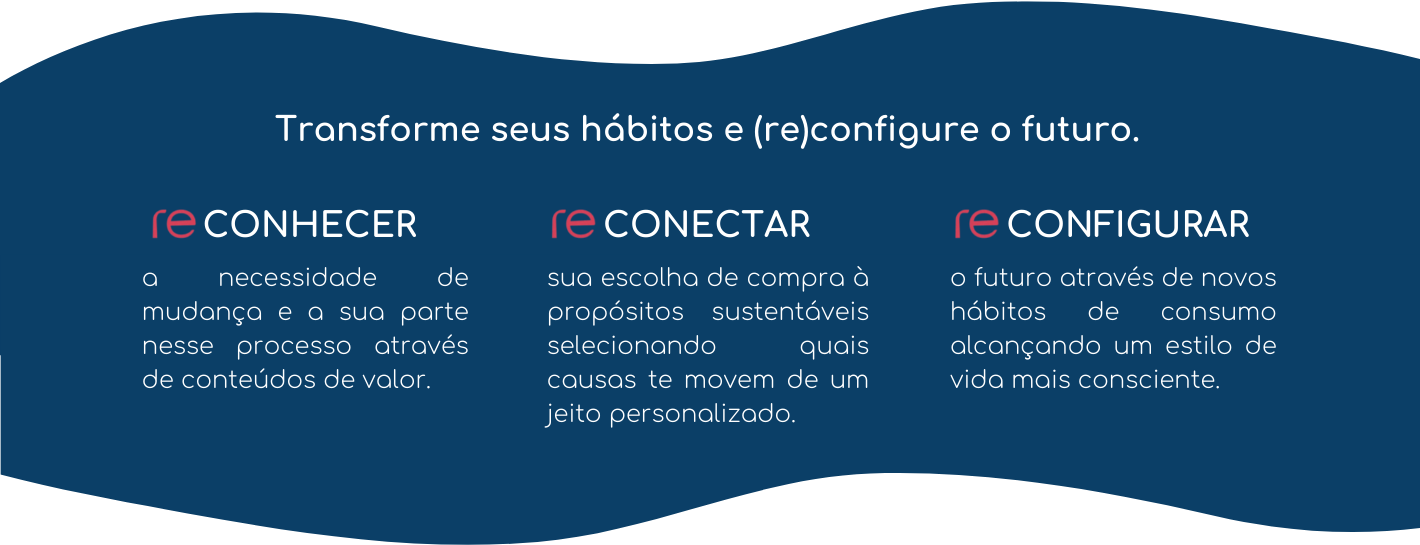
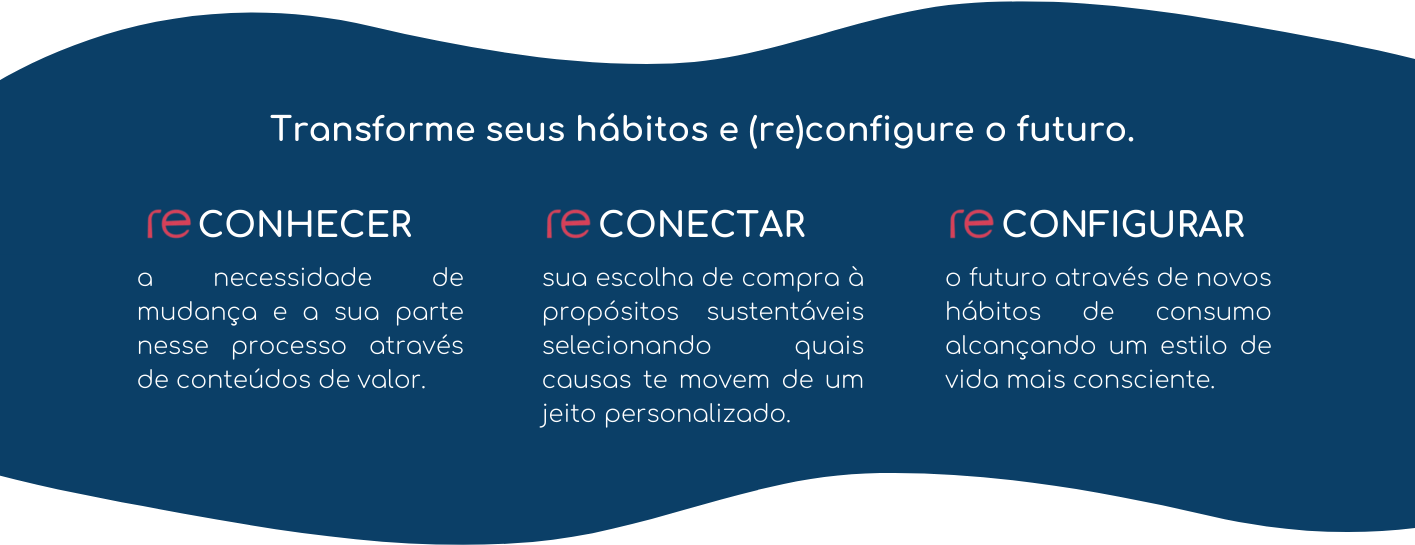
feat: presentation version

diff --git a/index.html b/index.html
@@ -6,6 +6,9 @@
   <meta name="viewport" content="width=device-width, initial-scale=1.0">
   <title>Re.You Shop | Sobre nós</title>
   <link rel="stylesheet" href="./styles.css">
+  <link rel="preconnect" href="https://fonts.googleapis.com">
+  <link rel="preconnect" href="https://fonts.gstatic.com" crossorigin>
+  <link href="https://fonts.googleapis.com/css2?family=Nunito:wght@300;400;500&family=Roboto+Serif:opsz,wght@8..144,100&display=swap" rel="stylesheet">
 </head>
 <body>
   <h1 id="page-title" class="align-left">

diff --git a/styles.css b/styles.css
@@ -43,6 +43,11 @@ h1 {
   font-size: 48px;
 }
 
+h1, h2 {
+  font-family: Nunito;
+  font-weight: 500;
+}
+
 .section-text-container {
   display: flex;
   flex-direction: column;
